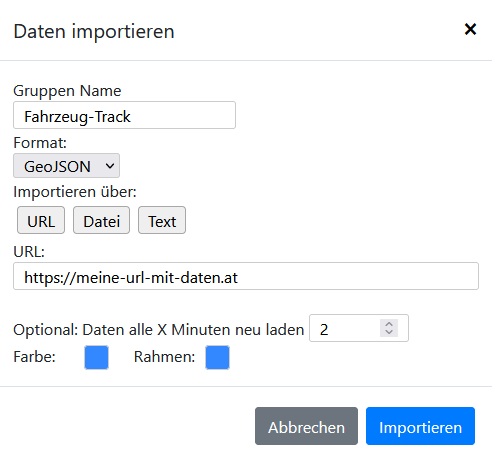
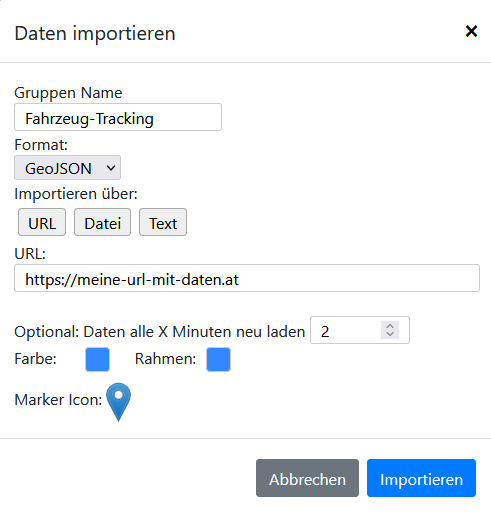
Update Docs Release 4.7

diff --git a/docs/contextmenu/contextmenu.md b/docs/contextmenu/contextmenu.md
@@ -40,15 +40,16 @@ Das Contextmenu kann mit einen `Rechts Klick` auf der Karte oder auf einem Objek
 
 ![](../assets/img/objektinfos-dialog.png)
 
-| Funktion      | Beschreibung                                                                                                                                                                                |
-|---------------|---------------------------------------------------------------------------------------------------------------------------------------------------------------------------------------------|
-| Bezeichnung   | Name des Objekts.                                                                                                                                                                           |
-| Label         | Dem Objekt wird ein Label auf der Karte hinzugefügt. Es kann die Schriftgrößer und Farbe bearbeitet werden.                                                                                 |
-| Status        | **Nicht** für `Symbole` verfügbar: Es können verschiedene Status angelegt werden, welche zur Farblichen markierung verwendet werden können.                                                 |
-| Mannschaft    | Es kann eine Zahl oder Namentlich hinterlegt werden, welche Mannschaft dafür eingteilt ist. Kann über die [Mannschaftsliste](../sidebar/funktionen.md#mannschaftsliste) ausgewertet werden. |
-| Informationen | Ein Feld zum ablegen von unterschiedlichen informationen.                                                                                                                                   |
-| Daten         | Zeigt verschiedene Daten an. Position, Breite, Länge, Umfang, Fläche, ...                                                                                                                   |
-| Download      | Das Objekt kann als `GeoJSON`, `KML` oder `GPX` heruntergeladen werden.                                                                                                                     |
+| Funktion       | Beschreibung                                                                                                                                                                                |
+|----------------|---------------------------------------------------------------------------------------------------------------------------------------------------------------------------------------------|
+| Bezeichnung    | Name des Objekts.                                                                                                                                                                           |
+| Label          | Dem Objekt wird ein Label auf der Karte hinzugefügt. Es kann die Schriftgrößer und Farbe bearbeitet werden.                                                                                 |
+| Status         | **Nicht** für `Symbole` verfügbar: Es können verschiedene Status angelegt werden, welche zur Farblichen markierung verwendet werden können.                                                 |
+| Mannschaft     | Es kann eine Zahl oder Namentlich hinterlegt werden, welche Mannschaft dafür eingteilt ist. Kann über die [Mannschaftsliste](/sidebar/funktionen.md#mannschaftsliste) ausgewertet werden. |
+| Informationen  | Ein Feld zum ablegen von unterschiedlichen informationen.                                                                                                                                   |
+| Popup-Bild URL | Bild-URL. Wird als Popup mit Klick auf den Layer angezeigt. Wird auch über den [Bildmarker](/sidebar/funktionen.md#bildmarker) gesetzt.                                                  |
+| Daten          | Zeigt verschiedene Daten an. Position, Breite, Länge, Umfang, Fläche, ...                                                                                                                   |
+| Download       | Das Objekt kann als `GeoJSON`, `KML` oder `GPX` heruntergeladen werden.                                                                                                                     |
 
 **Label:**
 
@@ -59,3 +60,7 @@ Das Contextmenu kann mit einen `Rechts Klick` auf der Karte oder auf einem Objek
 **Status**:
 
 ![](../assets/img/objektinfo-status.gif)
+
+**Popup-Bild URL**
+
+![](../assets/img/objektinfos-popup-url.png)

diff --git a/docs/sidebar/funktionen.md b/docs/sidebar/funktionen.md
@@ -140,13 +140,85 @@ Folgende Formate sind möglich:
  - GeoJSON
  - KML
  - GPX
+ - [GeoTIFF](#geotiff)
+
+Während dem Import kann eine Füll-Farbe, Rahmen-Farbe und ein Standard-Symbole ausgewählt werden. Werden nach dem Laden der Daten Eigenschaften erkannt, können diese als Label und Bezeichnung zugewiesen werden, sowie unterschiedliche Symbole zugewiesen werden.
+
+![](../assets/img/daten-import-property-mapping.png)
 
 Beim import über eine *URL*, kann auch angegeben werden, nach wie vielen Minuten das Objekt neu geladen werden soll. Kann z.B. zum Tracken eines Fahrzeuges verwendet werden.
 
 ![](../assets/img/daten-import-dialog.png)
+
+### GeoTIFF
+
+GeoTIFF ist ein TIFF-Bild welches Georeferenzen für ein Koordinatensystem hinterlegt hat. Dadurch ist es möglich Bilder von z.B. einer Drohne als Overlay auf der Karte zu platzieren. 
+
+> Wenn möglich sollte das GeoTIFF Bild per URL importiert werden, damit es auch auf dem Projekt gespeichert werden kann.
+
+![](./../assets/img/geotiff-sample.png)
+
+Als Beispiel kann folgende URL in der Lagekarte eingetragen werden: `https://storage.googleapis.com/pdd-stac/disasters/hurricane-harvey/0831/20170831_172754_101c_3b_Visual.tif`
+
+!> Grundsätzlich gilt: Um so größer / detailreicher ein GeoTIFF um so länger dauert es und um so mehr Performance wird benötigt. Wenn das GeoTIFF nicht mehr benötigt wird, wird empfohlen es unter "Layers" zu deaktivieren. Ab einer Dateigröße von ca. 30MB sollte auf ein [Cloud Optimized GeoTIFF (COG)](https://www.cogeo.org/) gewechselt werden.
+
+
+#### Cloud Optimized GeoTIFF (COG) erstellen
+
+> Leider habe ich keinen Konverter gefunden, ohne dass Linux verwendet werden muss. Wenn jemand einen einfachen Konverter findet, gerne an design.falke [at] gmail.com melden.
+
+Kurzbeschreibung für Entwickler:
+
+1. [gdal](https://gdal.org/) installieren
+2. Konvertieren:
+```
+gdal_translate input_tiff.tif output_cog.tif -co TILED=YES -co COMPRESS=DEFLATE
+gdaladdo -r average output_cog.tif  2 4 8 16 32
+```
+3. Auf einem Server speichern
+
+
 
 ## Fluchtlinie
 
 Es kann eine Fluchtlinie erstellt werden, um an Hand von zwei Punkten einen Zielpunkt zu finden.
 
 ![](../assets/img/funktion-fluchtlinie.gif)
+
+## Bildmarker
+
+Nach dem das Bild über eine URL geladen wurde, werden aus den Metadaten des Bildes die Koordinaten ermittelt. 
+Die Koordinaten können über den Dialog geändert werden oder auch manuell auf der Karte ausgewählt werden.
+
+![](../assets/img/image-marker-place-dialog.png)
+
+![](../assets/img/image-marker-popup.png)
+
+Die Bild-URL kann in den [Objektinfos]('sidebar/../../contextmenu/contextmenu.md#objektinfos') geändert werden.
+
+Folgende Anbieter können als Quelle verwendet werden:
+- eigener Webserver
+- Google Drive
+- OneDrive (Embed)
+- Dropbox
+
+### Google Drive
+
+In Google Drive muss das Bild Freigegeben und der Zugriff für jeden mit dem Link aktiviert werden:
+
+![](../assets/img/image-marker-google-drive.png) 
+
+
+### OneDrive
+
+In OneDrive darf **nicht** *Link kopieren* verwendet werden! Es muss **Einbetten** verwendet werden!
+
+![](../assets/img/image-marker-onedrive-einbetten.png)
+
+![](../assets/img/image-marker-onedrive-url.png)
+
+### Dropbox
+
+In Dropbox muss das Bild geteilt / freigegeben werden und dee **Lesezugriff** allen erlaubt werden.
+
+![](../assets/img/image-marker-dropbox.png)

diff --git a/docs/sidebar/save.md b/docs/sidebar/save.md
@@ -95,10 +95,12 @@ Um zu den Projekt-Einstellungen zu gelangen, muss auf den *Bearbeiten*-Button ge
 
 ![](../assets/img/projekt-settings-dialog.png)
 
-- Der Name des Projekts kann geändert werden
-- Eine Neugenerierung des *Share-Links*. **Achtung** dadurch werden alle bisher geteilten Links ungültig.
-- Projekt kopieren und neu abspeichern
-- Projekt löschen
+1. Der Name des Projekts kann geändert werden
+2. Eine Neugenerierung des *Share-Links*. **Achtung** dadurch werden alle bisher geteilten Links ungültig.
+3. Projekt in neuem Tab öffnen
+4. QR-Code anzeigen
+5. Projekt kopieren und neu abspeichern
+6. Projekt löschen
 
 
 ## Import / Export

diff --git a/docs/sidebar/layers.md b/docs/sidebar/layers.md
@@ -38,4 +38,10 @@ Gruppen können Ein- und Ausgeblendet werden, umbenannt und gelöscht werden.
 
 ## WMS Layer
 
-WMS Layer können über das *Hinzufügen*-Symbol in der Leiste oder im Tab-*Funktionen* hinzugefügt werden.
+WMS Layer können über das *Hinzufügen*-Symbol in der Leiste oder im [Tab-*Funktionen*](sidebar/../funktionen.md#wms-layer) hinzugefügt werden.
+
+Die angezeigten WMS-Layer können *ausgeblendet* oder *entfernt* werden.
+
+## GeoTIFF Layer
+
+GeoTIFF Layer, welche über [Daten importieren](sidebar/../funktionen.md#daten-importieren) hinzugefügt wurden, erscheinen hier und können *ausgeblendet* oder *entfernt* werden.

diff --git a/docs/_sidebar.md b/docs/_sidebar.md
@@ -9,7 +9,7 @@
   - [Meldungen](sidebar/meldungen.md)
   - [Speichern und Teilen](sidebar/save.md)
   - [Einstellungen](sidebar/settings.md)
-- [Contextmenu](contextmenu/README.md)
+- [Contextmenu](contextmenu/contextmenu.md)
 - [Drucken](drucken.md)
 - [🔐 Registrieren / Login](account.md)
 - [🔑 User Verwaltung](user-management.md)
